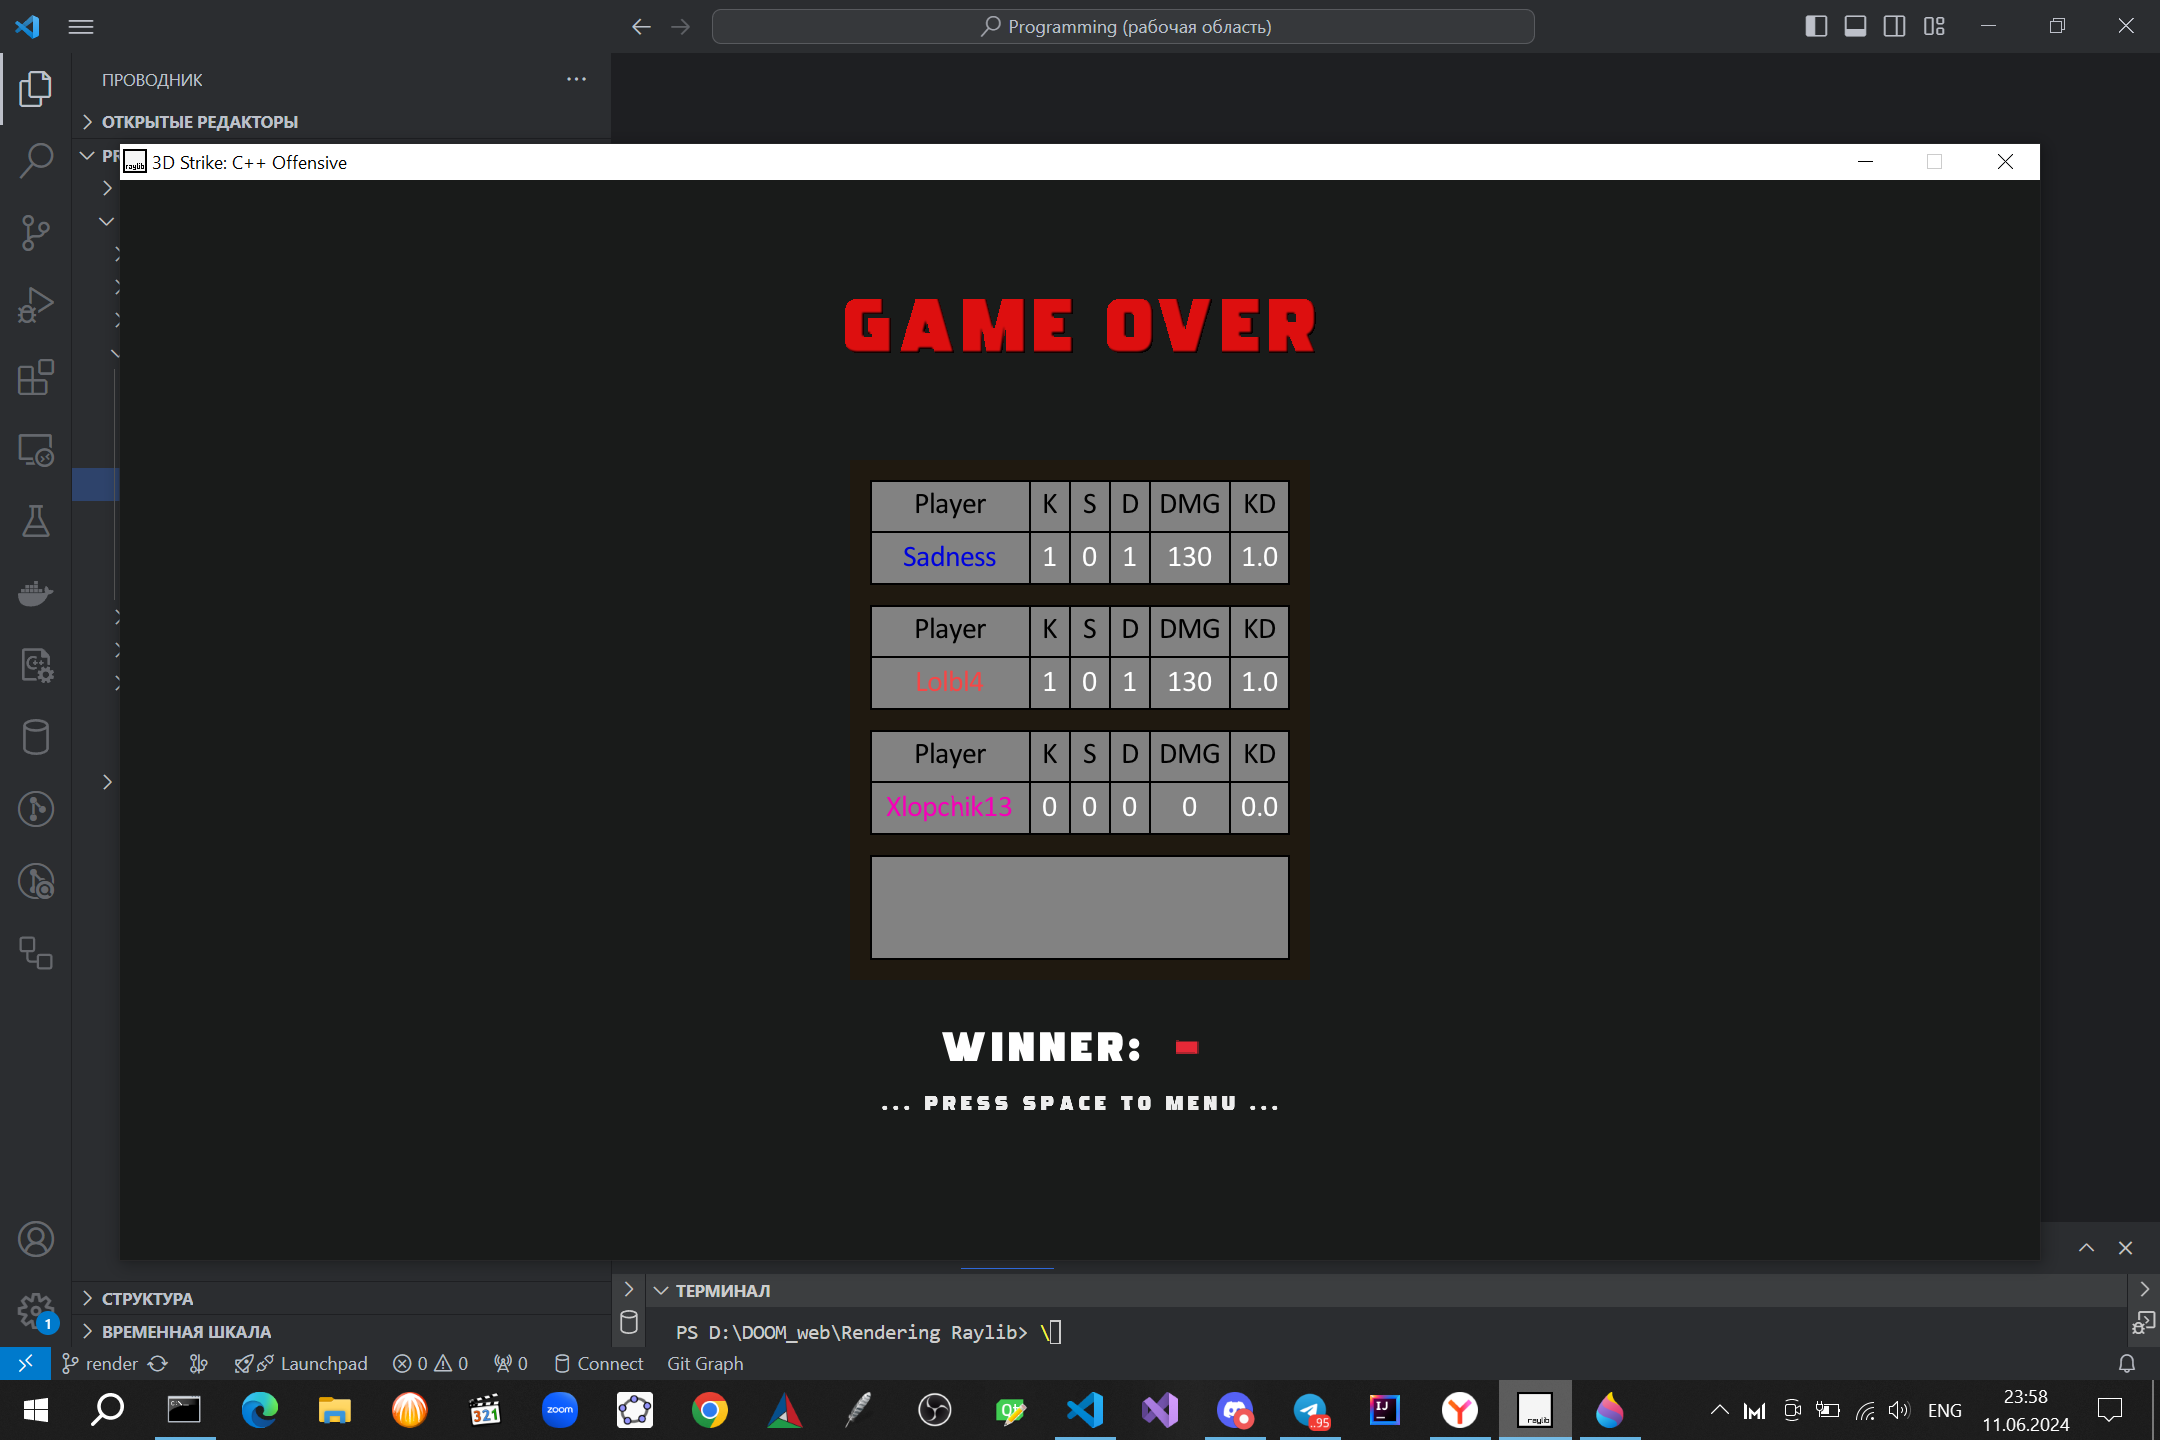
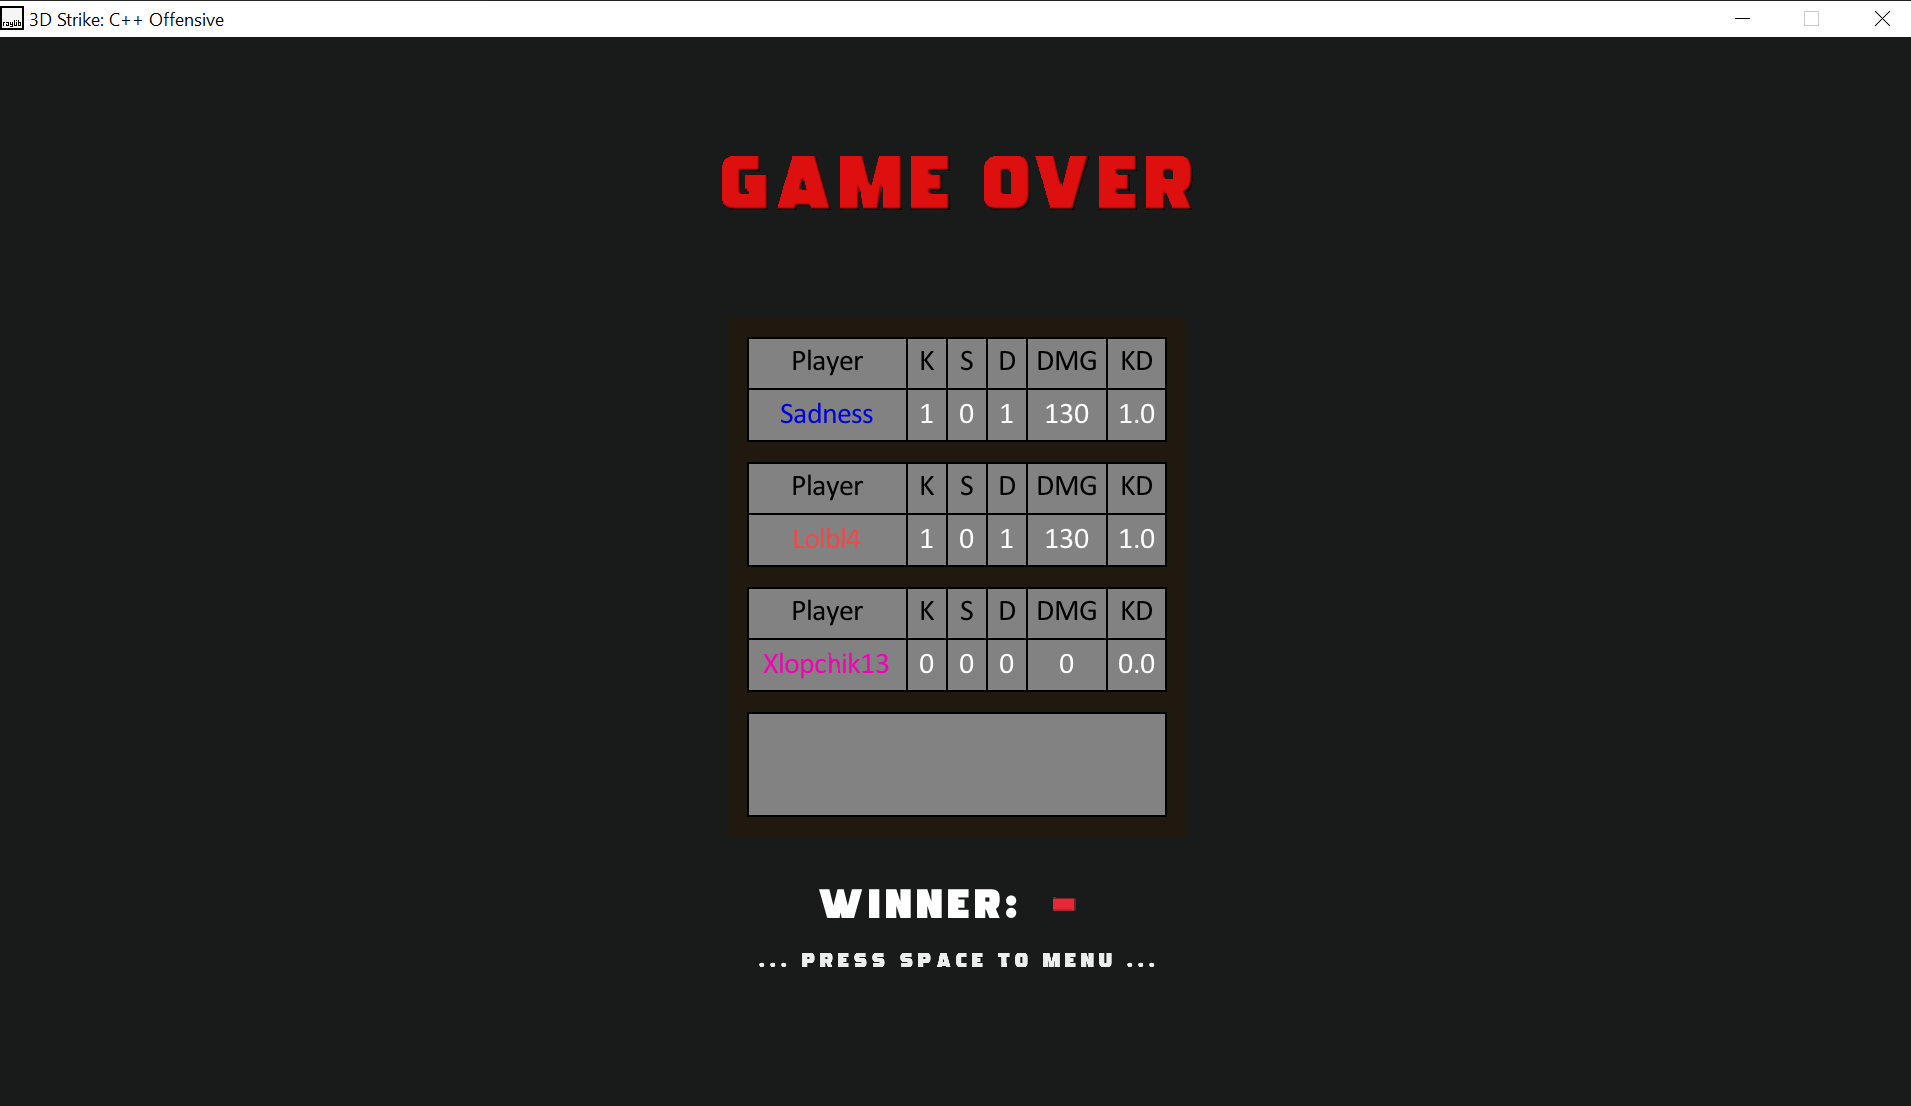
Crop images

diff --git a/website/index.html b/website/index.html
@@ -23,7 +23,7 @@
             <div class="info">
                 <h2>3D game Dev</h2>
                 <h1>Our first experience in game development</h1>
-                <p>We want to gratitude each other for contribution to this project.
+                <p>We want to express gratitude to each other for contribution to this project.
 And of course we want to thank our mentor Artyom.</p>
                 <div class="buttons">
                     <a href="#us" class="btn">Read more</a>
